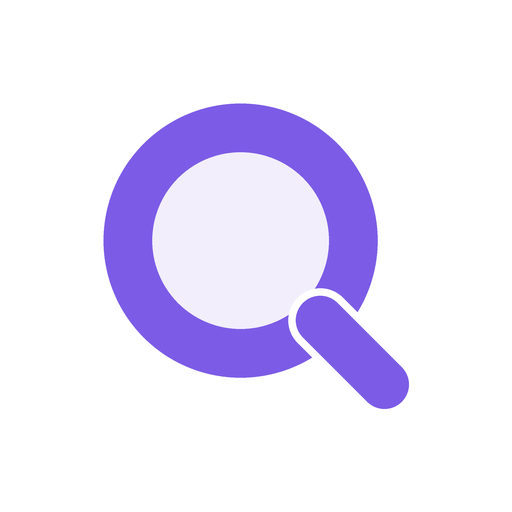
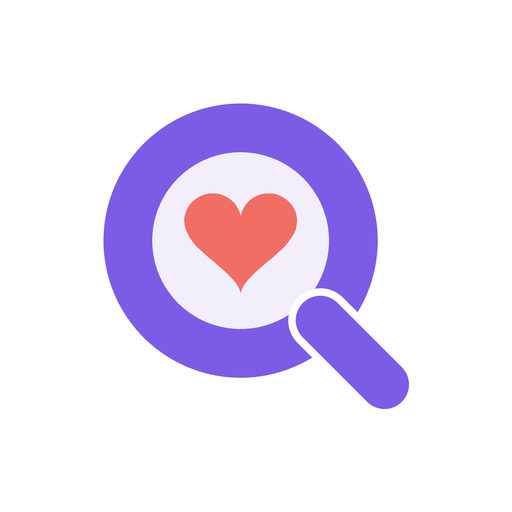
くらぶ（Qlove）のアイコンを、Q の輪の中にコーラルのハート（Q とハートを組み合わせた形）に。横長のロゴ・OGP はそのまま

Changed region(s): [[0.3438, 0.375, 0.5938, 0.5625]]

diff --git a/tools/qlove.py b/tools/qlove.py
@@ -3,7 +3,7 @@
 
 Q はほかのツールと同じ輪＋しっぽ（中には何も入れない）。love の v をハートにする。
 字は「Q人Q色」：Q・l・o・ハート・e を、ツールたちの色（紫・青・緑・コーラル・オレンジ。少しくすませた色）で1字ずつ塗る。
-アプリのアイコンは白い地に紫の Q。板つきロゴは、Q と同じ紫のグラデーションに白い字。
+アプリのアイコンは白い地に紫の Q と、輪の中にコーラルのハート（Q とハートを組み合わせた形。横長のロゴは love の v がハート）。板つきロゴは、Q と同じ紫のグラデーションに白い字。
   shared/qlove/logo.svg            … 横長のロゴ（Q人Q色。白い地に置く）
   shared/qlove/logo-dark.svg       … 暗い地に置くとき（同じ5色を明るめに）
   shared/qlove/logo-plate.svg      … グラデーションの板に白い字（ほかのツールのロゴと並べるとき）
@@ -51,6 +51,8 @@ Q_SHAPES = [
 ICON_BRAND = Brand((255, 255, 255), (255, 255, 255))
 ICON_SHAPES = [{**sh, "fill": sh.get("fill", COLORS[0])} for sh in Q_SHAPES]
 ICON_SHAPES[0] = {**ICON_SHAPES[0], "alpha": 0.1}
+# 輪の中にコーラルのハート（Q＋love。ほかのツールと同じく、輪の中にそのツールの印）。heart() は下で決める
+ICON_HEART = {"w": 22, "h": 19.5}  # 輪の内側（直径 R*2-W）に収まる大きさ
 
 font = TTFont(str(FONT_PATH))
 GLYPHS, CMAP = font.getGlyphSet(), font.getBestCmap()
@@ -189,7 +191,10 @@ def main():
     (OUT / "logo.svg").write_text(logo(INK, colors=COLORS), encoding="utf-8")
     (OUT / "logo-dark.svg").write_text(logo(INK, colors=COLORS_DARK), encoding="utf-8")
     (OUT / "logo-plate.svg").write_text(logo(plate=True), encoding="utf-8")
-    ICON_BRAND.write_icons(OUT, ICON_SHAPES)
+    # アイコン：Q の輪の真ん中にハート（上のへこみから先までの高さの真ん中を、輪の中心にそろえる）
+    hw, hh = ICON_HEART["w"], ICON_HEART["h"]
+    icon = ICON_SHAPES + [{"t": "poly", "p": heart(C[0], C[1] - hh / 2 + 0.5, hw, hh), "fill": HEART}]
+    ICON_BRAND.write_icons(OUT, icon)
     write_ogp(OUT / "ogp.png")
     print("wrote", OUT)
 
